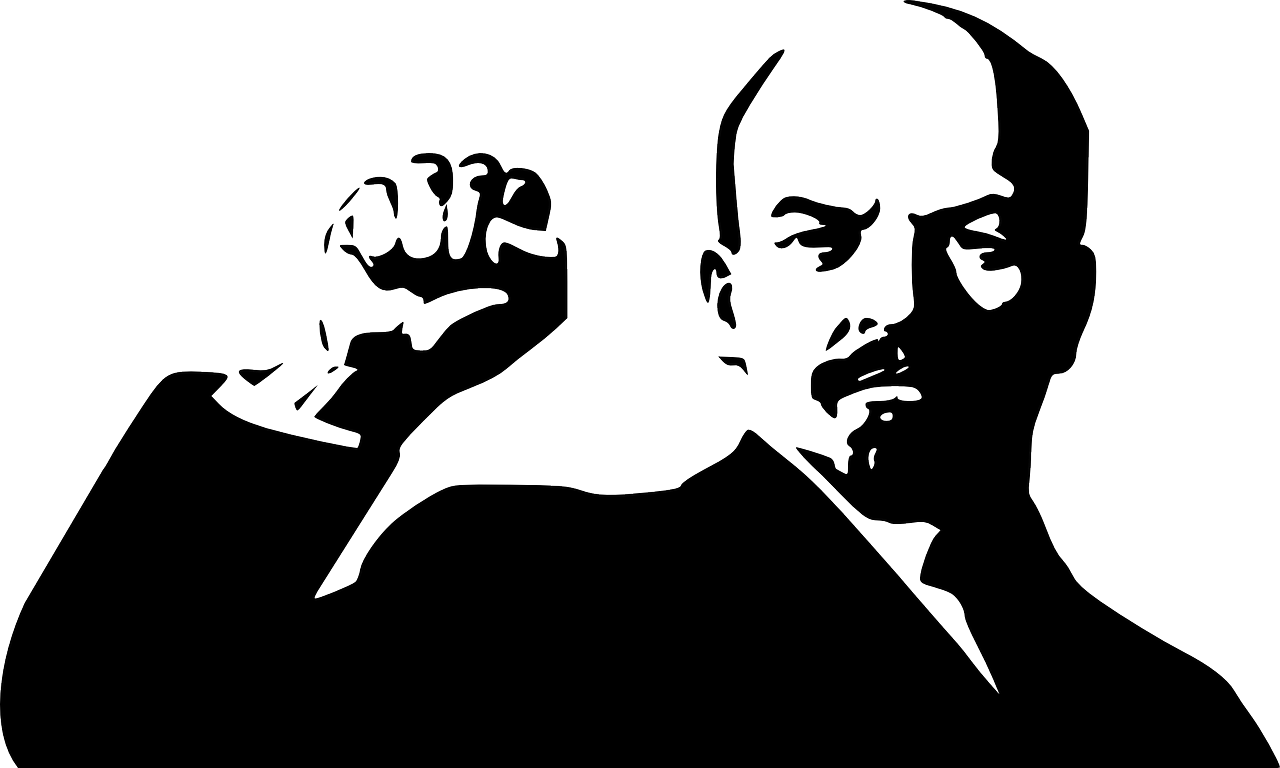
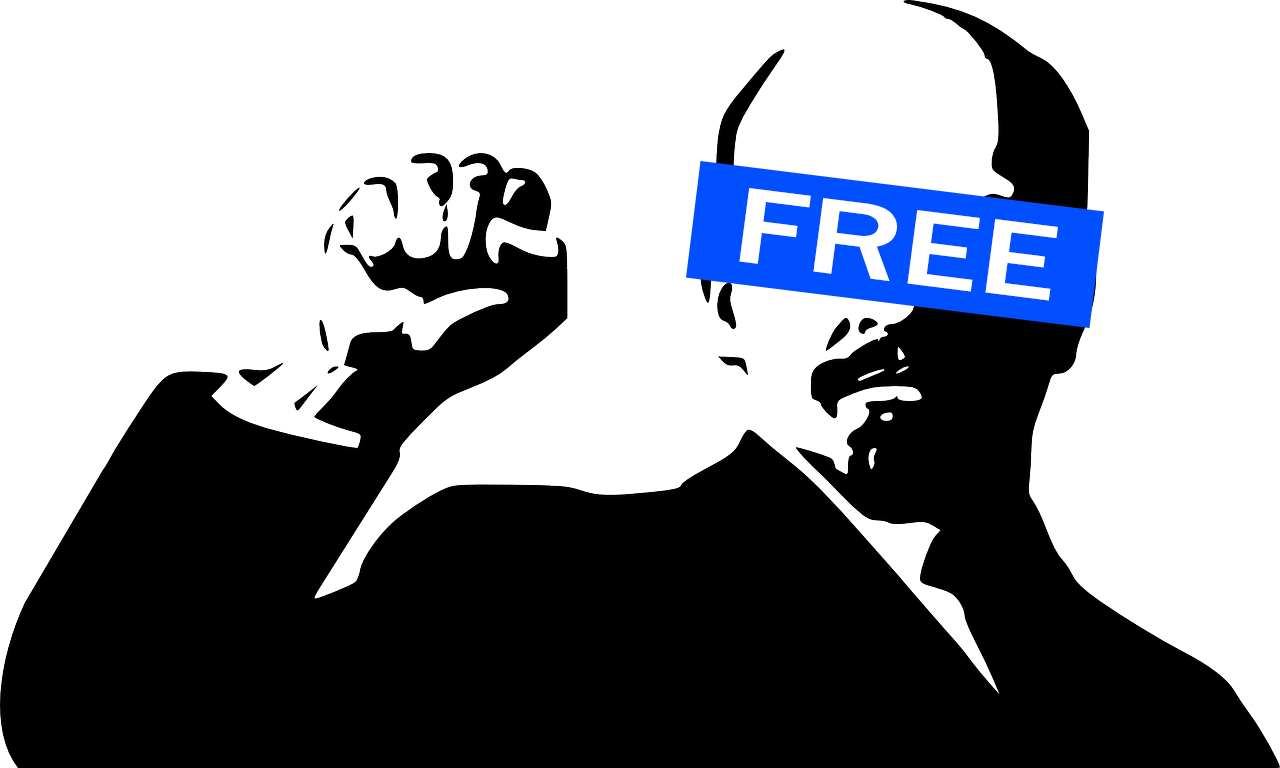
new colors + final lenin?

Changed region(s): [[0.5312, 0.1875, 0.875, 0.4375]]

diff --git a/dist/output.css b/dist/output.css
@@ -572,6 +572,10 @@ video {
   margin-right: 0.75rem;
 }
 
+.mt-1 {
+  margin-top: 0.25rem;
+}
+
 .mt-10 {
   margin-top: 2.5rem;
 }
@@ -596,18 +600,6 @@ video {
   margin-top: 1.75rem;
 }
 
-.mb-1 {
-  margin-bottom: 0.25rem;
-}
-
-.mt-2 {
-  margin-top: 0.5rem;
-}
-
-.mt-1 {
-  margin-top: 0.25rem;
-}
-
 .block {
   display: block;
 }
@@ -626,10 +618,6 @@ video {
 
 .h-12 {
   height: 3rem;
-}
-
-.h-14 {
-  height: 3.5rem;
 }
 
 .h-16 {
@@ -664,10 +652,6 @@ video {
   width: 3rem;
 }
 
-.w-14 {
-  width: 3.5rem;
-}
-
 .w-16 {
   width: 4rem;
 }
@@ -686,10 +670,6 @@ video {
 
 .w-\[3\.3rem\] {
   width: 3.3rem;
-}
-
-.flex-row {
-  flex-direction: row;
 }
 
 .flex-col {
@@ -716,14 +696,6 @@ video {
   border-radius: 0.375rem;
 }
 
-.rounded-sm {
-  border-radius: 0.125rem;
-}
-
-.rounded-lg {
-  border-radius: 0.5rem;
-}
-
 .rounded-xl {
   border-radius: 0.75rem;
 }
@@ -743,26 +715,12 @@ video {
   background-color: rgb(255 255 255 / var(--tw-bg-opacity));
 }
 
-.bg-gradient-to-r {
-  background-image: linear-gradient(to right, var(--tw-gradient-stops));
-}
-
-.from-gulag-blue-light {
-  --tw-gradient-from: #e2edff var(--tw-gradient-from-position);
-  --tw-gradient-to: rgb(226 237 255 / 0) var(--tw-gradient-to-position);
-  --tw-gradient-stops: var(--tw-gradient-from), var(--tw-gradient-to);
-}
-
-.to-blue-light {
-  --tw-gradient-to: #c7dcfc var(--tw-gradient-to-position);
+.fill-black {
+  fill: #000;
 }
 
 .fill-white {
   fill: #fff;
-}
-
-.fill-black {
-  fill: #000;
 }
 
 .p-6 {
@@ -816,11 +774,6 @@ video {
   color: rgb(0 0 0 / var(--tw-text-opacity));
 }
 
-.text-gray-900 {
-  --tw-text-opacity: 1;
-  color: rgb(17 24 39 / var(--tw-text-opacity));
-}
-
 .text-white {
   --tw-text-opacity: 1;
   color: rgb(255 255 255 / var(--tw-text-opacity));
@@ -835,52 +788,10 @@ video {
   display: none;
 }
 
-.hover\:border-sky-500:hover {
-  --tw-border-opacity: 1;
-  border-color: rgb(14 165 233 / var(--tw-border-opacity));
-}
-
 .hover\:ring:hover {
   --tw-ring-offset-shadow: var(--tw-ring-inset) 0 0 0 var(--tw-ring-offset-width) var(--tw-ring-offset-color);
   --tw-ring-shadow: var(--tw-ring-inset) 0 0 0 calc(3px + var(--tw-ring-offset-width)) var(--tw-ring-color);
   box-shadow: var(--tw-ring-offset-shadow), var(--tw-ring-shadow), var(--tw-shadow, 0 0 #0000);
-}
-
-.focus\:ring:focus {
-  --tw-ring-offset-shadow: var(--tw-ring-inset) 0 0 0 var(--tw-ring-offset-width) var(--tw-ring-offset-color);
-  --tw-ring-shadow: var(--tw-ring-inset) 0 0 0 calc(3px + var(--tw-ring-offset-width)) var(--tw-ring-color);
-  box-shadow: var(--tw-ring-offset-shadow), var(--tw-ring-shadow), var(--tw-shadow, 0 0 #0000);
-}
-
-.focus\:ring-transparent:focus {
-  --tw-ring-color: transparent;
-}
-
-.active\:ring:active {
-  --tw-ring-offset-shadow: var(--tw-ring-inset) 0 0 0 var(--tw-ring-offset-width) var(--tw-ring-offset-color);
-  --tw-ring-shadow: var(--tw-ring-inset) 0 0 0 calc(3px + var(--tw-ring-offset-width)) var(--tw-ring-color);
-  box-shadow: var(--tw-ring-offset-shadow), var(--tw-ring-shadow), var(--tw-shadow, 0 0 #0000);
-}
-
-.active\:hover\:ring:hover:active {
-  --tw-ring-offset-shadow: var(--tw-ring-inset) 0 0 0 var(--tw-ring-offset-width) var(--tw-ring-offset-color);
-  --tw-ring-shadow: var(--tw-ring-inset) 0 0 0 calc(3px + var(--tw-ring-offset-width)) var(--tw-ring-color);
-  box-shadow: var(--tw-ring-offset-shadow), var(--tw-ring-shadow), var(--tw-shadow, 0 0 #0000);
-}
-
-:is(.dark .dark\:bg-slate-900) {
-  --tw-bg-opacity: 1;
-  background-color: rgb(15 23 42 / var(--tw-bg-opacity));
-}
-
-:is(.dark .dark\:bg-slate-800) {
-  --tw-bg-opacity: 1;
-  background-color: rgb(30 41 59 / var(--tw-bg-opacity));
-}
-
-:is(.dark .dark\:bg-slate-700) {
-  --tw-bg-opacity: 1;
-  background-color: rgb(51 65 85 / var(--tw-bg-opacity));
 }
 
 :is(.dark .dark\:bg-slate-500) {
@@ -888,14 +799,29 @@ video {
   background-color: rgb(100 116 139 / var(--tw-bg-opacity));
 }
 
+:is(.dark .dark\:bg-slate-700) {
+  --tw-bg-opacity: 1;
+  background-color: rgb(51 65 85 / var(--tw-bg-opacity));
+}
+
+:is(.dark .dark\:bg-slate-800) {
+  --tw-bg-opacity: 1;
+  background-color: rgb(30 41 59 / var(--tw-bg-opacity));
+}
+
+:is(.dark .dark\:bg-gulag-dark) {
+  --tw-bg-opacity: 1;
+  background-color: rgb(23 23 23 / var(--tw-bg-opacity));
+}
+
+:is(.dark .dark\:bg-gulag-dark-body) {
+  --tw-bg-opacity: 1;
+  background-color: rgb(32 33 36 / var(--tw-bg-opacity));
+}
+
 :is(.dark .dark\:text-white) {
   --tw-text-opacity: 1;
   color: rgb(255 255 255 / var(--tw-text-opacity));
-}
-
-:is(.dark .dark\:text-zinc-300) {
-  --tw-text-opacity: 1;
-  color: rgb(212 212 216 / var(--tw-text-opacity));
 }
 
 @media (min-width: 768px) {
@@ -914,24 +840,12 @@ video {
     margin-right: 1.25rem;
   }
 
-  .md\:mb-0 {
-    margin-bottom: 0px;
-  }
-
   .md\:mr-16 {
     margin-right: 4rem;
   }
 
-  .md\:mt-0 {
-    margin-top: 0px;
-  }
-
   .md\:block {
     display: block;
-  }
-
-  .md\:inline-block {
-    display: inline-block;
   }
 
   .md\:flex {
@@ -956,10 +870,6 @@ video {
 
   .md\:flex-grow {
     flex-grow: 1;
-  }
-
-  .md\:flex-row {
-    flex-direction: row;
   }
 
   .md\:px-6 {
@@ -993,24 +903,12 @@ video {
     margin-bottom: 0px;
   }
 
-  .lg\:mt-0 {
-    margin-top: 0px;
-  }
-
-  .lg\:ml-3 {
-    margin-left: 0.75rem;
-  }
-
-  .lg\:mr-2 {
-    margin-right: 0.5rem;
-  }
-
   .lg\:mb-1 {
     margin-bottom: 0.25rem;
   }
 
-  .lg\:block {
-    display: block;
+  .lg\:mt-0 {
+    margin-top: 0px;
   }
 
   .lg\:inline-block {

diff --git a/index.html b/index.html
@@ -11,10 +11,10 @@
     <link href="https://fonts.googleapis.com/css2?family=Roboto:wght@100;300;400;700&display=swap" rel="stylesheet">
     <title>GulagCleaner</title>
 </head>
-<body class="flex flex-col min-h-screen dark:bg-slate-800" style="font-family: 'Roboto', sans-serif;">
+<body class="flex flex-col min-h-screen dark:bg-gulag-dark-body" style="font-family: 'Roboto', sans-serif;">
 
     <!-- navbar -->
-    <header class="bg-gulag-blue-light drop-shadow-lg dark:bg-slate-700">
+    <header class="bg-gulag-blue-light drop-shadow-lg dark:bg-gulag-dark">
         <nav class="flex flex-col lg:flex-row items-center justify-between p-6 text-black">
           <div>
             <!-- <a href="https://angeloyo.github.io/gulagcleaner.com/"> -->
@@ -32,12 +32,12 @@
                         <svg  class="lg:mb-1 lg:inline-block fill-black" xmlns="http://www.w3.org/2000/svg" height="1em" viewBox="0 0 384 512"><!--! Font Awesome Free 6.4.0 by @fontawesome - https://fontawesome.com License - https://fontawesome.com/license (Commercial License) Copyright 2023 Fonticons, Inc. --><style>svg{fill:#ffffff}</style><path d="M223.5 32C100 32 0 132.3 0 256S100 480 223.5 480c60.6 0 115.5-24.2 155.8-63.4c5-4.9 6.3-12.5 3.1-18.7s-10.1-9.7-17-8.5c-9.8 1.7-19.8 2.6-30.1 2.6c-96.9 0-175.5-78.8-175.5-176c0-65.8 36-123.1 89.3-153.3c6.1-3.5 9.2-10.5 7.7-17.3s-7.3-11.9-14.3-12.5c-6.3-.5-12.6-.8-19-.8z"/></svg>
                     </div>
                     <div id="sun">
-                        <svg  class="lg:mb-1 lg:inline-block fill-black" xmlns="http://www.w3.org/2000/svg" height="1em" viewBox="0 0 512 512"><!--! Font Awesome Free 6.4.0 by @fontawesome - https://fontawesome.com License - https://fontawesome.com/license (Commercial License) Copyright 2023 Fonticons, Inc. --><style>svg{fill:#ffffff}</style><path d="M361.5 1.2c5 2.1 8.6 6.6 9.6 11.9L391 121l107.9 19.8c5.3 1 9.8 4.6 11.9 9.6s1.5 10.7-1.6 15.2L446.9 256l62.3 90.3c3.1 4.5 3.7 10.2 1.6 15.2s-6.6 8.6-11.9 9.6L391 391 371.1 498.9c-1 5.3-4.6 9.8-9.6 11.9s-10.7 1.5-15.2-1.6L256 446.9l-90.3 62.3c-4.5 3.1-10.2 3.7-15.2 1.6s-8.6-6.6-9.6-11.9L121 391 13.1 371.1c-5.3-1-9.8-4.6-11.9-9.6s-1.5-10.7 1.6-15.2L65.1 256 2.8 165.7c-3.1-4.5-3.7-10.2-1.6-15.2s6.6-8.6 11.9-9.6L121 121 140.9 13.1c1-5.3 4.6-9.8 9.6-11.9s10.7-1.5 15.2 1.6L256 65.1 346.3 2.8c4.5-3.1 10.2-3.7 15.2-1.6zM160 256a96 96 0 1 1 192 0 96 96 0 1 1 -192 0zm224 0a128 128 0 1 0 -256 0 128 128 0 1 0 256 0z"/></svg>
+                        <svg  class="lg:mb-1 lg:inline-block " xmlns="http://www.w3.org/2000/svg" height="1em" viewBox="0 0 512 512"><!--! Font Awesome Free 6.4.0 by @fontawesome - https://fontawesome.com License - https://fontawesome.com/license (Commercial License) Copyright 2023 Fonticons, Inc. --><style>svg{fill:#ffffff}</style><path d="M361.5 1.2c5 2.1 8.6 6.6 9.6 11.9L391 121l107.9 19.8c5.3 1 9.8 4.6 11.9 9.6s1.5 10.7-1.6 15.2L446.9 256l62.3 90.3c3.1 4.5 3.7 10.2 1.6 15.2s-6.6 8.6-11.9 9.6L391 391 371.1 498.9c-1 5.3-4.6 9.8-9.6 11.9s-10.7 1.5-15.2-1.6L256 446.9l-90.3 62.3c-4.5 3.1-10.2 3.7-15.2 1.6s-8.6-6.6-9.6-11.9L121 391 13.1 371.1c-5.3-1-9.8-4.6-11.9-9.6s-1.5-10.7 1.6-15.2L65.1 256 2.8 165.7c-3.1-4.5-3.7-10.2-1.6-15.2s6.6-8.6 11.9-9.6L121 121 140.9 13.1c1-5.3 4.6-9.8 9.6-11.9s10.7-1.5 15.2 1.6L256 65.1 346.3 2.8c4.5-3.1 10.2-3.7 15.2-1.6zM160 256a96 96 0 1 1 192 0 96 96 0 1 1 -192 0zm224 0a128 128 0 1 0 -256 0 128 128 0 1 0 256 0z"/></svg>
                     </div>
                 </button>
                 <a target="_blank" href="https://github.com/YM162/gulagcleaner" class=" hover:ring
                 text-center block lg:inline-block mt-4 lg:mt-0 mb-2 lg:mb-0 mr-2 px-4 py-3 bg-white dark:bg-slate-500 
-                 rounded-md  text-xl lg:text-2xl">GitHub
+                 rounded-md  text-xl lg:text-2xl dark:text-white text-black">GitHub
                 </a>
             </div>
 
@@ -95,8 +95,7 @@
         <!-- foto lenin y nuestro objetivo -->
         <div class="md:flex justify-center items-center mt-32 mx-7 xl:mx-40" >
             <div class="md:w-1/2 md:mr-16">
-                <img id="white-lenin" class="rounded-xl" src="./img/lenin-i.png" alt="GulagCleaner Image">
-                <img id="black-lenin" class="rounded-xl" src="./img/lenin.png" alt="GulagCleaner Image">
+                <img class="rounded-xl" src="./img/lenin.png" alt="GulagCleaner Image">
             </div>
             <div class="mt-10 md:w-1/2 md:mx-5">
                 <h2 class="text-4xl mb-7 dark:text-white font-bold">Nuestro objetivo</h2>
@@ -125,7 +124,7 @@
 
     </main>
 
-    <footer class="bg-gulag-blue-light mt-32 dark:bg-slate-700">
+    <footer class="bg-gulag-blue-light mt-32 dark:bg-gulag-dark">
         <div class="flex justify-center my-7 dark:text-white">
 
             <div class="mx-11">

diff --git a/js/app.js b/js/app.js
@@ -1,9 +1,7 @@
 // Icons and img
 const sunIcon = document.getElementById("sun");
 const moonIcon = document.getElementById("moon");
-const switchButton = document.getElementById("switchButton")
-const blackLenin = document.getElementById("black-lenin");
-const whiteLenin = document.getElementById("white-lenin");
+const switchButton = document.getElementById("switchButton");
 
 // Theme vars
 const userTheme = localStorage.getItem("theme");
@@ -15,8 +13,6 @@ const iconToggle = () => {
     // sunIcon.classList.toggle("hidden");
     moonIcon.classList.toggle("display-none");
     sunIcon.classList.toggle("display-none");
-    blackLenin.classList.toggle("display-none");
-    whiteLenin.classList.toggle("display-none");
 }
 
 // Initial Theme check

diff --git a/tailwind.config.js b/tailwind.config.js
@@ -7,7 +7,9 @@ module.exports = {
       colors: {
         'gulag-blue': '#024fff',
         'gulag-blue-light': '#e2edff',
-        'blue-light': '#c7dcfc'
+        'blue-light': '#c7dcfc',
+        'gulag-dark': '#171717',
+        'gulag-dark-body': '#202124'
       },
     },
   },
